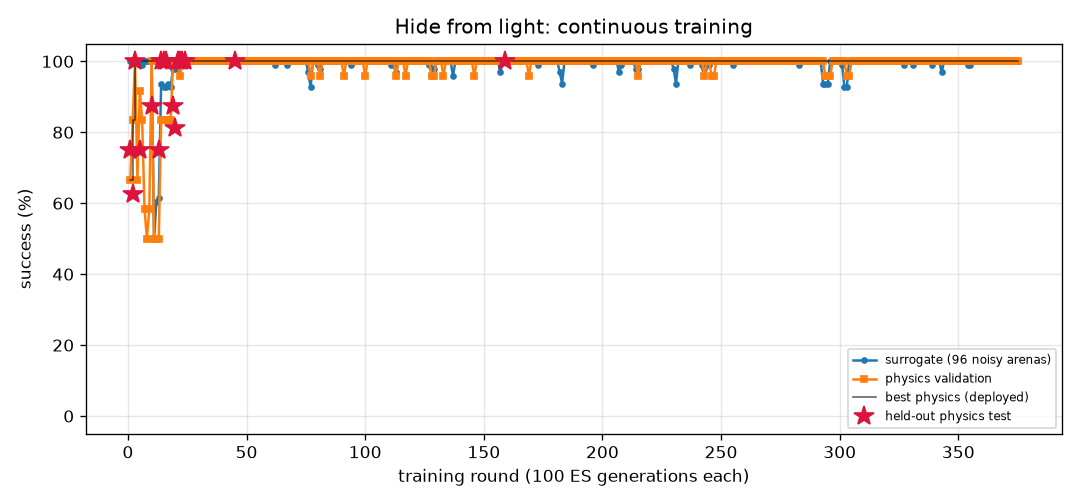
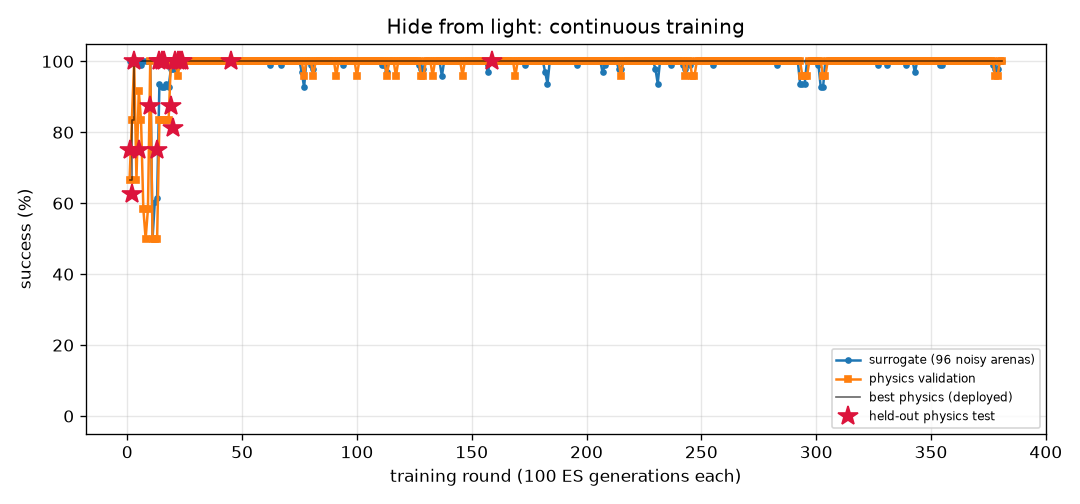
FlyLab: continuous training progress
- walk_forward: optimal, physics val 100% of 24, round 197
- turn: optimal, physics val 100% of 24, round 689
- goto: optimal, physics val 100% of 24, round 173
- odor_seek: optimal, physics val 100% of 24, round 152
- odor_avoid: optimal, physics val 100% of 24, round 648
- light_seek: optimal, physics val 100% of 24, round 360
- light_avoid: optimal, physics val 100% of 24, round 381

diff --git a/projects/09_flylab/training/odor_avoid/REPORT.md b/projects/09_flylab/training/odor_avoid/REPORT.md
@@ -1,14 +1,14 @@
 # Escape a bad smell (`odor_avoid`) — training report
 
-*Auto-generated by `train_brains.py`, last updated 2026-10-26T00:32:30.*
+*Auto-generated by `train_brains.py`, last updated 2026-10-26T21:15:14.*
 
 ![curve](curve.png)
 
 | | |
 |---|---|
-| rounds | 641 |
-| ES generations | 64100 |
-| physics runs | 12690 |
+| rounds | 648 |
+| ES generations | 64800 |
+| physics runs | 12858 |
 | status | **optimal** |
 | best brain | round 373: physics validation **100%** on 24 arenas, surrogate 97% |
 | held-out physics test | **97%** on 32 unseen arenas (95% CI 84%-99%) (errors: [62.0, 57.4, 62.6, 61.9, 59.0, 61.6, 56.5, 60.7, 31.7, 60.9, 63.1, 57.1, 61.1, 62.1, 61.5, 60.2, 62.2, 55.2, 62.1, 54.2, 61.3, 62.0, 58.0, 61.9, 59.8, 56.5, 56.3, 56.4, 56.3, 57.7, 61.9, 32.4]) |
@@ -17,13 +17,6 @@ Physics error per arena: mm gained away from source (> 6 without first approachi
 
 | round | level | gens | sigma | surrogate | physics val | val errors | test | note |
 |---:|---:|---:|---:|---:|---:|---|---:|---|
-| 602 | 3 | 60200 | 0.026 | 96% | 96% | [63.5, 61.2, 57.0, 61.4, 62.0, 62.2, 62.4, 36.5, 60.9, 58.1, 61.6, 61.9, 52.3, 55.8, 42.8, 61.0, 62.6, 61.3, 55.1, 57.7, 61.9, 60.5, 56.6, 59.3] |  |  |
-| 603 | 3 | 60300 | 0.026 | 97% | 96% | [63.7, 61.5, 55.8, 61.4, 61.7, 63.0, 62.1, 60.2, 61.3, 62.5, 61.9, 62.0, 52.0, 56.3, 51.1, 61.6, 62.1, 61.4, 55.5, 60.9, 61.9, 62.4, 61.6, 48.2] |  |  |
-| 604 | 3 | 60400 | 0.026 | 96% | 92% | [62.4, 61.2, 56.4, 61.2, 60.8, 62.5, 60.9, 61.3, 62.1, 57.7, 58.9, 61.4, 47.4, 55.0, 37.5, 62.5, 61.7, 62.5, 50.5, 60.8, 61.8, 61.3, 61.5, 62.0] |  |  |
-| 605 | 3 | 60500 | 0.026 | 95% | 96% | [62.4, 61.1, 56.4, 61.4, 62.7, 60.0, 60.5, 54.3, 61.9, 50.5, 48.8, 61.7, 50.1, 54.5, 1.4, 62.3, 61.9, 54.0, 43.8, 57.5, 62.1, 62.1, 56.8, 56.9] |  | restart from best |
-| 606 | 3 | 60600 | 0.026 | 96% | 100% | [61.9, 57.1, 56.3, 59.4, 56.1, 60.1, 60.1, 36.6, 61.5, 31.1, 53.9, 61.4, 50.6, 55.4, 40.6, 61.1, 61.4, 61.6, 53.8, 60.4, 61.4, 60.9, 59.5, 61.5] |  |  |
-| 607 | 3 | 60700 | 0.026 | 97% | 96% | [61.3, 60.3, 56.1, 59.2, 60.4, 61.7, 60.0, 52.9, 60.8, 60.0, 60.6, 61.2, 50.8, 55.9, 40.8, 61.7, 61.2, 61.3, 53.9, 59.4, 61.5, 60.8, 59.0, 61.4] |  |  |
-| 608 | 3 | 60800 | 0.026 | 97% | 92% | [60.0, 58.8, 55.8, 59.6, 60.2, 46.3, 60.6, 41.2, 60.4, 25.1, 58.9, 61.0, 48.7, 55.4, 45.7, 60.4, 61.1, 59.4, 53.9, 56.1, 60.7, 46.5, 58.3, 25.8] |  |  |
 | 609 | 3 | 60900 | 0.026 | 96% | 96% | [60.3, 59.5, 55.5, 58.2, 60.0, 59.6, 60.7, 52.1, 60.7, 47.5, 39.4, 60.6, 52.3, 53.8, 21.6, 52.6, 61.1, 58.9, 51.5, 55.3, 60.9, 58.9, 59.5, 58.3] |  | restart from best |
 | 610 | 3 | 61000 | 0.026 | 95% | 100% | [63.3, 55.8, 56.6, 61.4, 61.8, 61.2, 62.1, 57.1, 61.1, 60.6, 62.2, 62.4, 54.9, 56.4, 44.4, 61.8, 61.9, 60.9, 55.3, 56.4, 61.9, 59.2, 58.0, 56.4] |  |  |
 | 611 | 3 | 61100 | 0.027 | 96% | 96% | [63.4, 56.3, 56.1, 58.3, 62.4, 61.7, 62.4, 59.9, 61.0, 62.3, 61.9, 61.9, 55.2, 56.1, 43.3, 62.1, 62.4, 62.1, 55.7, 55.4, 62.2, 61.5, 61.0, 60.6] |  |  |
@@ -57,3 +50,10 @@ Physics error per arena: mm gained away from source (> 6 without first approachi
 | 639 | 3 | 63900 | 0.026 | 93% | 100% | [61.8, 57.5, 55.8, 57.3, 38.8, 44.8, 61.0, 38.8, 61.6, 47.4, 26.1, 61.3, 48.6, 55.1, 28.4, 58.9, 60.9, 36.2, 52.7, 59.1, 61.1, 37.9, 59.3, 61.3] |  |  |
 | 640 | 3 | 64000 | 0.028 | 94% | 100% | [61.2, 57.6, 56.1, 57.9, 59.9, 60.1, 60.5, 58.3, 60.5, 38.3, 27.9, 61.0, 50.8, 55.8, 41.7, 57.8, 61.1, 58.9, 52.7, 53.8, 60.8, 57.5, 58.4, 59.6] |  |  |
 | 641 | 3 | 64100 | 0.028 | 94% | 96% | [60.8, 59.8, 55.5, 60.0, 59.7, 60.0, 60.6, 47.2, 61.0, 22.2, 4.4, 60.7, 53.0, 55.7, 29.8, 49.0, 60.9, 60.1, 54.1, 59.8, 60.9, 31.8, 60.2, 59.9] |  | restart from best |
+| 642 | 3 | 64200 | 0.026 | 95% | 96% | [62.9, 58.9, 56.5, 61.0, 61.4, 62.0, 61.2, 57.9, 61.4, 47.4, 61.3, 61.8, 52.3, 56.2, 37.6, 60.0, 62.3, 62.0, 55.2, 56.9, 62.2, 55.1, 59.6, 49.1] |  |  |
+| 643 | 3 | 64300 | 0.027 | 95% | 96% | [62.1, 55.2, 56.4, 57.7, 61.7, 60.3, 61.1, 38.1, 59.4, 57.3, 61.6, 60.8, 54.2, 57.3, 37.5, 61.2, 61.2, 60.5, 54.9, 56.4, 61.1, 59.7, 57.2, 28.9] |  |  |
+| 644 | 3 | 64400 | 0.027 | 95% | 92% | [61.4, 57.7, 55.5, 56.7, 61.4, 58.9, 60.8, 3.0, 59.7, 10.8, 60.3, 61.4, 54.7, 55.7, 49.9, 61.1, 61.4, 60.6, 54.8, 56.2, 61.4, 39.8, 56.6, 4.6] |  |  |
+| 645 | 3 | 64500 | 0.027 | 98% | 96% | [61.8, 57.9, 55.7, 60.4, 61.1, 60.6, 60.8, 27.1, 60.8, 35.2, 60.6, 60.9, 51.6, 56.0, 42.2, 61.1, 61.5, 57.4, 54.4, 55.9, 61.5, 47.4, 59.0, 38.4] |  | restart from best |
+| 646 | 3 | 64600 | 0.026 | 97% | 96% | [63.3, 55.7, 57.2, 58.8, 60.5, 57.8, 61.5, 36.6, 60.6, 41.7, 59.4, 61.1, 52.1, 55.7, 45.2, 61.4, 61.4, 58.9, 54.9, 57.0, 61.2, 46.2, 58.3, 40.0] |  |  |
+| 647 | 3 | 64700 | 0.026 | 96% | 96% | [63.0, 58.1, 56.5, 61.1, 59.9, 61.4, 61.1, 53.2, 60.6, 58.6, 60.8, 61.7, 51.8, 55.8, 26.3, 62.0, 61.5, 61.4, 54.8, 56.1, 62.0, 61.8, 58.8, 62.3] |  |  |
+| 648 | 3 | 64800 | 0.026 | 96% | 100% | [63.4, 61.3, 56.1, 58.6, 59.8, 60.3, 61.8, 17.4, 61.2, 33.2, 59.8, 61.8, 51.4, 55.0, 19.1, 60.8, 61.7, 59.4, 49.1, 58.8, 61.8, 61.0, 55.2, 61.5] |  |  |

diff --git a/projects/09_flylab/training/light_avoid/REPORT.md b/projects/09_flylab/training/light_avoid/REPORT.md
@@ -1,14 +1,14 @@
 # Hide from light (`light_avoid`) — training report
 
-*Auto-generated by `train_brains.py`, last updated 2026-10-25T21:53:30.*
+*Auto-generated by `train_brains.py`, last updated 2026-10-26T21:13:40.*
 
 ![curve](curve.png)
 
 | | |
 |---|---|
-| rounds | 375 |
-| ES generations | 37500 |
-| physics runs | 9272 |
+| rounds | 381 |
+| ES generations | 38100 |
+| physics runs | 9416 |
 | status | **optimal** |
 | best brain | round 159: physics validation **100%** on 24 arenas, surrogate 100% |
 | held-out physics test | **100%** on 32 unseen arenas (95% CI 89%-100%) (errors: [14.4, 56.1, 58.0, 57.9, 57.5, 14.0, 14.4, 56.6, 56.8, 13.3, 14.1, 56.6, 57.6, 13.1, 57.3, 55.9, 57.2, 55.0, 55.2, 53.9, 55.2, 12.4, 53.8, 53.7, 14.1, 13.7, 55.0, 57.8, 56.2, 13.1, 52.8, 56.5]) |
@@ -17,12 +17,6 @@ Physics error per arena: mm gained away from source (> 6 without first approachi
 
 | round | level | gens | sigma | surrogate | physics val | val errors | test | note |
 |---:|---:|---:|---:|---:|---:|---|---:|---|
-| 336 | 3 | 33600 | 0.024 | 100% | 100% | [54.1, 58.1, 58.0, 55.9, 56.9, 55.5, 56.9, 14.5, 51.1, 13.5, 57.4, 56.7, 14.4, 55.2, 58.1, 54.2, 14.2, 57.6, 58.4, 14.4, 53.0, 57.7, 56.7, 55.9] |  |  |
-| 337 | 3 | 33700 | 0.024 | 100% | 100% | [55.2, 60.1, 59.8, 56.2, 60.4, 55.8, 58.3, 14.5, 54.4, 13.3, 58.4, 60.3, 14.3, 59.2, 59.9, 55.6, 14.2, 60.8, 60.4, 14.4, 56.6, 58.9, 57.9, 59.7] |  |  |
-| 338 | 3 | 33800 | 0.024 | 100% | 100% | [38.3, 39.5, 39.8, 39.6, 35.0, 39.1, 40.3, 14.5, 13.0, 13.4, 38.8, 35.3, 14.4, 39.3, 39.6, 38.4, 14.2, 36.2, 38.6, 14.4, 11.9, 38.7, 39.9, 34.7] |  |  |
-| 339 | 3 | 33900 | 0.024 | 99% | 100% | [35.1, 36.6, 36.1, 33.8, 33.7, 34.9, 35.9, 14.5, 13.0, 13.4, 10.0, 31.2, 14.4, 32.7, 35.0, 36.7, 14.2, 32.5, 33.5, 14.4, 34.6, 11.0, 34.1, 32.4] |  | restart from best |
-| 340 | 3 | 34000 | 0.024 | 100% | 100% | [37.8, 36.3, 35.8, 39.0, 39.7, 36.9, 34.2, 14.5, 33.2, 13.4, 38.2, 40.3, 14.4, 40.3, 36.2, 39.4, 14.2, 39.6, 37.9, 14.4, 39.3, 41.2, 33.2, 39.9] |  |  |
-| 341 | 3 | 34100 | 0.024 | 100% | 100% | [44.4, 45.3, 45.1, 45.8, 48.0, 45.2, 42.6, 14.5, 47.2, 13.3, 48.8, 48.4, 14.4, 48.3, 45.0, 46.2, 14.2, 48.6, 45.9, 14.4, 44.6, 50.0, 43.7, 48.2] |  |  |
 | 342 | 3 | 34200 | 0.024 | 100% | 100% | [53.8, 58.4, 58.1, 54.7, 58.3, 55.1, 56.8, 14.5, 56.1, 13.5, 57.0, 58.1, 14.4, 56.7, 58.3, 54.6, 14.2, 58.8, 58.6, 14.4, 53.0, 56.9, 56.8, 57.6] |  |  |
 | 343 | 3 | 34300 | 0.024 | 97% | 100% | [42.7, 44.8, 44.3, 43.7, 45.6, 44.5, 42.3, 14.5, 45.1, 13.4, 46.1, 45.7, 14.4, 46.0, 44.5, 39.0, 14.2, 46.4, 45.0, 14.4, 8.5, 47.3, 41.6, 45.4] |  | restart from best |
 | 344 | 3 | 34400 | 0.024 | 100% | 100% | [57.3, 62.0, 61.6, 58.2, 61.6, 58.8, 60.3, 14.5, 57.1, 13.1, 60.6, 61.5, 14.4, 58.8, 61.9, 56.8, 14.2, 62.2, 62.3, 14.4, 59.1, 60.5, 59.9, 60.9] |  |  |
@@ -57,3 +51,9 @@ Physics error per arena: mm gained away from source (> 6 without first approachi
 | 373 | 3 | 37300 | 0.024 | 100% | 100% | [57.4, 60.7, 60.6, 57.9, 58.8, 57.9, 59.6, 14.5, 56.6, 13.3, 58.4, 58.5, 14.4, 56.9, 60.7, 56.1, 14.2, 59.5, 60.6, 14.4, 55.7, 56.3, 59.4, 57.4] |  |  |
 | 374 | 3 | 37400 | 0.024 | 100% | 100% | [58.8, 62.6, 62.4, 59.7, 61.5, 60.0, 61.3, 14.5, 56.1, 13.4, 61.5, 61.2, 14.4, 59.2, 62.5, 60.1, 14.2, 62.1, 62.9, 14.4, 58.3, 61.7, 61.1, 60.5] |  |  |
 | 375 | 3 | 37500 | 0.024 | 100% | 100% | [59.7, 62.8, 62.6, 59.2, 61.9, 60.3, 61.5, 14.5, 55.1, 13.2, 60.8, 61.6, 14.4, 61.3, 62.7, 60.6, 14.2, 62.3, 63.1, 14.4, 57.7, 61.7, 61.3, 61.1] |  | restart from best |
+| 376 | 3 | 37600 | 0.024 | 100% | 100% | [48.2, 50.9, 50.3, 49.4, 53.3, 49.3, 48.5, 14.5, 38.2, 13.3, 53.0, 53.3, 14.4, 51.8, 50.9, 49.8, 14.2, 53.2, 50.9, 14.4, 48.9, 53.2, 48.8, 53.1] |  |  |
+| 377 | 3 | 37700 | 0.024 | 99% | 100% | [46.0, 46.5, 46.8, 45.7, 41.9, 45.0, 46.4, 14.5, 13.0, 13.4, 10.1, 42.8, 14.4, 40.5, 46.6, 45.3, 14.2, 43.2, 45.6, 14.4, 45.3, 11.0, 45.4, 41.0] |  |  |
+| 378 | 3 | 37800 | 0.025 | 98% | 96% | [45.0, 45.6, 45.6, 44.9, 42.9, 45.1, 45.0, 14.5, 13.0, 13.4, 10.2, 42.6, 14.4, 7.7, 45.6, 44.2, 14.2, 43.8, 45.8, 14.4, 44.9, 11.2, 44.5, 41.9] |  |  |
+| 379 | 3 | 37900 | 0.025 | 98% | 96% | [52.8, 57.0, 56.7, 53.8, 56.8, 52.5, 55.4, 14.5, 13.0, 13.4, 10.2, 56.5, 14.4, 8.0, 56.9, 53.4, 14.2, 57.0, 57.6, 14.4, 50.8, 11.3, 55.2, 55.9] |  | restart from best |
+| 380 | 3 | 38000 | 0.024 | 100% | 100% | [53.9, 56.3, 56.4, 54.1, 52.6, 53.7, 56.4, 14.5, 12.2, 13.4, 52.4, 52.4, 14.4, 50.6, 56.5, 54.0, 14.2, 53.7, 56.0, 14.4, 52.7, 51.3, 56.1, 51.6] |  |  |
+| 381 | 3 | 38100 | 0.024 | 100% | 100% | [55.3, 59.2, 58.8, 56.1, 56.9, 56.4, 58.1, 14.5, 47.0, 13.6, 56.2, 56.9, 14.4, 54.9, 58.9, 56.4, 14.2, 58.0, 59.1, 14.4, 56.3, 55.7, 57.9, 55.8] |  |  |

diff --git a/projects/09_flylab/training/turn/REPORT.md b/projects/09_flylab/training/turn/REPORT.md
@@ -1,14 +1,14 @@
 # Turn in place (`turn`) — training report
 
-*Auto-generated by `train_brains.py`, last updated 2026-10-26T20:10:17.*
+*Auto-generated by `train_brains.py`, last updated 2026-10-26T20:19:09.*
 
 ![curve](curve.png)
 
 | | |
 |---|---|
-| rounds | 688 |
-| ES generations | 68800 |
-| physics runs | 16758 |
+| rounds | 689 |
+| ES generations | 68900 |
+| physics runs | 16782 |
 | status | **optimal** |
 | best brain | round 80: physics validation **100%** on 24 arenas, surrogate 100% |
 | held-out physics test | **97%** on 32 unseen arenas (95% CI 84%-99%) (errors: [1.6, 3.3, 6.3, 3.7, 1.1, 0.4, 2.4, 2.9, 0.1, 2.6, 0.5, 2.7, 1.5, 3.1, 4.5, 0.2, 0.5, 1.1, 2.0, 4.4, 2.8, 3.2, 0.3, 2.2, 0.5, 3.0, 0.3, 5.4, 0.4, 1.0, 4.7, 10.7]) |
@@ -17,7 +17,6 @@ Physics error per arena: deg from target heading (< 20 = success).
 
 | round | level | gens | sigma | surrogate | physics val | val errors | test | note |
 |---:|---:|---:|---:|---:|---:|---|---:|---|
-| 649 | 3 | 64900 | 0.024 | 99% | 75% | [4.5, 8.9, 0.8, 2.0, 3.5, 1.2, 4.7, 2.3, 4.9, 0.8, 2.7, 1.5, 1.4, 4.4, 2.0, 1.5, 1.6, 1.0, 10.4, 1.9, 6.8, 1.3, 4.7, 3.0] |  |  |
 | 650 | 3 | 65000 | 0.025 | 99% | 71% | [9.4, 8.3, 9.5, 1.2, 3.0, 0.8, 3.2, 4.6, 4.1, 0.6, 3.7, 2.1, 2.2, 6.1, 3.9, 3.8, 2.2, 0.4, 3.0, 2.7, 8.9, 0.6, 0.7, 0.6] |  |  |
 | 651 | 3 | 65100 | 0.025 | 99% | 96% | [9.7, 11.1, 2.9, 4.3, 3.2, 3.7, 2.2, 2.5, 2.2, 1.3, 2.0, 2.9, 3.2, 5.4, 0.9, 1.2, 2.8, 10.4, 3.0, 0.3, 5.1, 0.9, 1.5, 6.2] |  |  |
 | 652 | 3 | 65200 | 0.025 | 99% | 88% | [7.0, 1.7, 1.4, 1.7, 3.3, 4.4, 4.6, 7.5, 6.2, 2.0, 4.9, 0.8, 0.2, 0.4, 4.3, 3.8, 1.2, 1.9, 3.7, 1.0, 2.6, 0.1, 6.3, 5.1] |  | restart from best |
@@ -57,3 +56,4 @@ Physics error per arena: deg from target heading (< 20 = success).
 | 686 | 3 | 68600 | 0.025 | 99% | 96% | [6.1, 7.1, 5.4, 0.6, 10.2, 1.5, 2.5, 5.1, 4.1, 1.3, 2.3, 0.8, 2.6, 3.4, 2.7, 0.2, 0.7, 12.6, 1.2, 1.8, 6.2, 0.4, 3.0, 1.9] |  |  |
 | 687 | 3 | 68700 | 0.025 | 99% | 96% | [1.2, 5.6, 3.2, 1.5, 1.0, 2.0, 5.4, 6.9, 4.2, 0.8, 3.8, 0.0, 2.7, 3.1, 2.0, 0.4, 0.5, 1.3, 0.2, 0.0, 5.0, 0.9, 4.4, 1.1] |  |  |
 | 688 | 3 | 68800 | 0.025 | 99% | 88% | [7.3, 9.3, 5.3, 5.3, 0.2, 2.6, 1.6, 0.7, 3.9, 1.1, 2.4, 2.4, 0.4, 4.3, 2.8, 0.0, 2.1, 0.7, 1.2, 1.3, 6.5, 0.0, 2.8, 2.7] |  | restart from best |
+| 689 | 3 | 68900 | 0.024 | 99% | 83% | [6.8, 9.6, 4.0, 3.0, 3.1, 4.3, 2.4, 3.6, 3.2, 2.7, 2.9, 3.0, 3.3, 2.0, 1.3, 1.6, 3.1, 2.7, 1.4, 0.4, 7.7, 0.6, 2.2, 2.0] |  |  |

diff --git a/projects/09_flylab/training/TRAINING.md b/projects/09_flylab/training/TRAINING.md
@@ -1,15 +1,15 @@
 # FlyLab brains — continuous training log
 
-*Auto-generated by `train_brains.py`, last updated 2026-10-26T20:10:17.*
+*Auto-generated by `train_brains.py`, last updated 2026-10-26T21:15:14.*
 
 Every skill has its own brain and its own training process: surrogate ES rounds, physics validation in MuJoCo, keep-the-best selection, and a held-out physics test that is never used for selection. See each skill's report for its full round-by-round history. Mastery is progressive: passing a level (100% physics validation, >=95% surrogate) doubles the validation and test arena sets; a brain is **optimal** once it holds up at level 3 (>=95% of 24 validation arenas) AND scores >=90% on the 32 held-out test arenas. Test columns show 95% Wilson confidence intervals.
 
 | skill | rounds | ES generations | physics runs | surrogate | physics val | **physics test** | status |
 |---|---:|---:|---:|---:|---:|---:|---|
 | [Walk forward](walk_forward/REPORT.md) | 197 | 19700 | 4742 | 100% | 100% of 24 | 100% of 32 (CI 89-100%) | **optimal** |
-| [Turn in place](turn/REPORT.md) | 688 | 68800 | 16758 | 100% | 100% of 24 | 97% of 32 (CI 84-99%) | **optimal** |
+| [Turn in place](turn/REPORT.md) | 689 | 68900 | 16782 | 100% | 100% of 24 | 97% of 32 (CI 84-99%) | **optimal** |
 | [Go to a location](goto/REPORT.md) | 173 | 17300 | 4070 | 99% | 100% of 24 | 100% of 32 (CI 89-100%) | **optimal** |
 | [Find food by smell](odor_seek/REPORT.md) | 152 | 15200 | 3078 | 100% | 100% of 24 | 100% of 32 (CI 89-100%) | **optimal** |
-| [Escape a bad smell](odor_avoid/REPORT.md) | 641 | 64100 | 12690 | 97% | 100% of 24 | 97% of 32 (CI 84-99%) | **optimal** |
+| [Escape a bad smell](odor_avoid/REPORT.md) | 648 | 64800 | 12858 | 97% | 100% of 24 | 97% of 32 (CI 84-99%) | **optimal** |
 | [Walk toward light](light_seek/REPORT.md) | 360 | 36000 | 5488 | 100% | 100% of 24 | 100% of 32 (CI 89-100%) | **optimal** |
-| [Hide from light](light_avoid/REPORT.md) | 375 | 37500 | 9272 | 100% | 100% of 24 | 100% of 32 (CI 89-100%) | **optimal** |
+| [Hide from light](light_avoid/REPORT.md) | 381 | 38100 | 9416 | 100% | 100% of 24 | 100% of 32 (CI 89-100%) | **optimal** |
